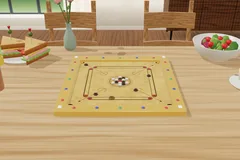
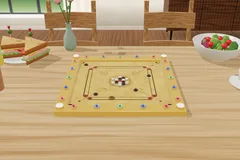
Carrom tycoon: bigger gems
Claude-Session: https://claude.ai/code/session_019p8B6UqeAdsK6vNEgpDiqd

diff --git a/atlas/models/carrom.js b/atlas/models/carrom.js
@@ -491,7 +491,7 @@
       if (BM.rim) { const rg = geos.prim || (geos.prim = (() => { const q = new TT.TorusGeometry(RP + .012, .014, 6, LO() ? 20 : 36); q.rotateX(Math.PI / 2); if (X.share) X.share(q); return q; })()); const rim = new TT.Mesh(rg, BM.rim); rim.position.set(sx * PC, TOP + .004, sz * PC); g.add(rim); }
     }
     if (BM.ruby) {   // cabochons along the frame (ruby · sapphire · emerald · sapphire · ruby …) and a diamond at each corner
-      const cab = gemGeo(.15, 12), dia = gemGeo(.22, 16);
+      const cab = gemGeo(.22, 12), dia = gemGeo(.3, 16);
       const collar = (r) => geos['col' + r] || (geos['col' + r] = (() => { const q = new TT.CylinderGeometry(r * 1.04, r * 1.14, r * .82, LO() ? 16 : 28, 1, true); if (X.share) X.share(q); return q; })());
       // a stone raised in a gold collar: its inner facets (back faces), a dark heart, the crown; kept out of the showcase's merge
       const stone = (geo, r, mt, back, core, x, y, z, ry) => {
@@ -501,15 +501,15 @@
         const b = new TT.Mesh(geo, back); b.renderOrder = 1; gs.add(b);
         const m = new TT.Mesh(geo, mt); m.castShadow = true; m.renderOrder = 2; gs.add(m); g.add(gs);
       };
-      const set = geos.bez || (geos.bez = (() => { const q = new TT.TorusGeometry(.16, .022, 6, LO() ? 16 : 24); q.rotateX(Math.PI / 2); if (X.share) X.share(q); return q; })());
+      const set = geos.bez || (geos.bez = (() => { const q = new TT.TorusGeometry(.235, .026, 6, LO() ? 16 : 24); q.rotateX(Math.PI / 2); if (X.share) X.share(q); return q; })());
       const ym = TOP + FH, mid = S + FW / 2, order = [BM.ruby, BM.sapphire, BM.emerald, BM.sapphire, BM.ruby];
       for (let side = 0; side < 4; side++) for (let k = 0; k < 5; k++) {
         const t = (k - 2) * S * .42, x = side < 2 ? t : (side === 2 ? -mid : mid), z = side < 2 ? (side === 0 ? -mid : mid) : t;
         const nm = ['ruby', 'sapphire', 'emerald', 'sapphire', 'ruby'][k];
-        stone(cab, .15, order[k], BM.back[nm], BM.core[nm], x, ym, z, k * .4);
+        stone(cab, .22, order[k], BM.back[nm], BM.core[nm], x, ym, z, k * .4);
         const bz = new TT.Mesh(set, BM.frame); bz.position.set(x, ym + .004, z); g.add(bz);
       }
-      for (const [sx, sz] of [[-1, -1], [1, -1], [-1, 1], [1, 1]]) { const bz = new TT.Mesh(geos.bez, BM.frame); bz.scale.setScalar(1.45); bz.position.set(sx * mid, ym + .004, sz * mid); g.add(bz); stone(dia, .22, BM.diamond, BM.back.diamond, null, sx * mid, ym, sz * mid, Math.PI / 16); }
+      for (const [sx, sz] of [[-1, -1], [1, -1], [-1, 1], [1, 1]]) { const bz = new TT.Mesh(geos.bez, BM.frame); bz.scale.setScalar(1.36); bz.position.set(sx * mid, ym + .004, sz * mid); g.add(bz); stone(dia, .3, BM.diamond, BM.back.diamond, null, sx * mid, ym, sz * mid, Math.PI / 16); }
     }
     if (BM.edge) {   // brass edging (a neon tube on the night board) along the frame's top outer edge
       const e = new TT.Mesh(new TT.BoxGeometry(2 * (S + FW) - .02, .012, .03), BM.edge);

diff --git a/atlas/tables3d.js b/atlas/tables3d.js
@@ -165,7 +165,7 @@
   };
   X.BOARDS = BOARDS;
   X.boardName = (k, lang) => { const o = N3[k]; return o ? o[lang] || o.en : k; };
-  X.boardThumb = (id, k) => new URL('img/board-' + id + '-' + k + '.webp?v=' + (id === 'senet' ? 3 : id === 'carrom' ? 4 : id === 'konane' ? 2 : 1), ME).href;
+  X.boardThumb = (id, k) => new URL('img/board-' + id + '-' + k + '.webp?v=' + (id === 'senet' ? 3 : id === 'carrom' ? 5 : id === 'konane' ? 2 : 1), ME).href;
   // choose a board for a game: the shared key is written and the showcase board (if it is that game's) is rebuilt at once
   X.setBoard = (id, k) => { const B = BOARDS[id]; if (!B || !B.list.includes(k)) return; B.set(k); try { dispatchEvent(new CustomEvent('atlas-board', { detail: { id, look: k } })); } catch (e) {} };
   PLACES.ui.board = { ja: '盤', en: 'Board', zh: '棋盘', ko: '판', es: 'Tablero', fr: 'Plateau', pt: 'Tabuleiro', de: 'Brett', hi: 'बोर्ड', ar: 'اللوحة', ru: 'Доска', 'zh-TW': '棋盤', id: 'Papan', tr: 'Tahta' };

diff --git a/atlas/index.html b/atlas/index.html
@@ -1632,7 +1632,7 @@ html:has(#bv.on,#hist.on,#ov.on,.lvsheet) :is(.updline,#gsSeg),.updline[hidden],
 <script src="i18n.js?v=59n"></script>
 <script src="gamelist-i18n.js?v=10n"></script>
 <script src="table3d.js?v=126"></script>
-<script src="tables3d.js?v=34"></script>
+<script src="tables3d.js?v=35"></script>
 <script src="models/shogi.js?v=23"></script>
 <script src="models/chess.js?v=14"></script>
 <script src="models/backgammon.js?v=118"></script>
@@ -1658,7 +1658,7 @@ html:has(#bv.on,#hist.on,#ov.on,.lvsheet) :is(.updline,#gsSeg),.updline[hidden],
 <script src="../ludo/board2d.js?v=5"></script>
 <script src="models/ludo.js?v=5"></script>
 <script src="../carrom/engine.js?v=2"></script>
-<script src="models/carrom.js?v=10"></script>
+<script src="models/carrom.js?v=11"></script>
 <script src="models/cardtables.js?v=4"></script>
 <script src="icons3d.js?v=34"></script>
 <script src="games/reversi.js?v=30"></script>
